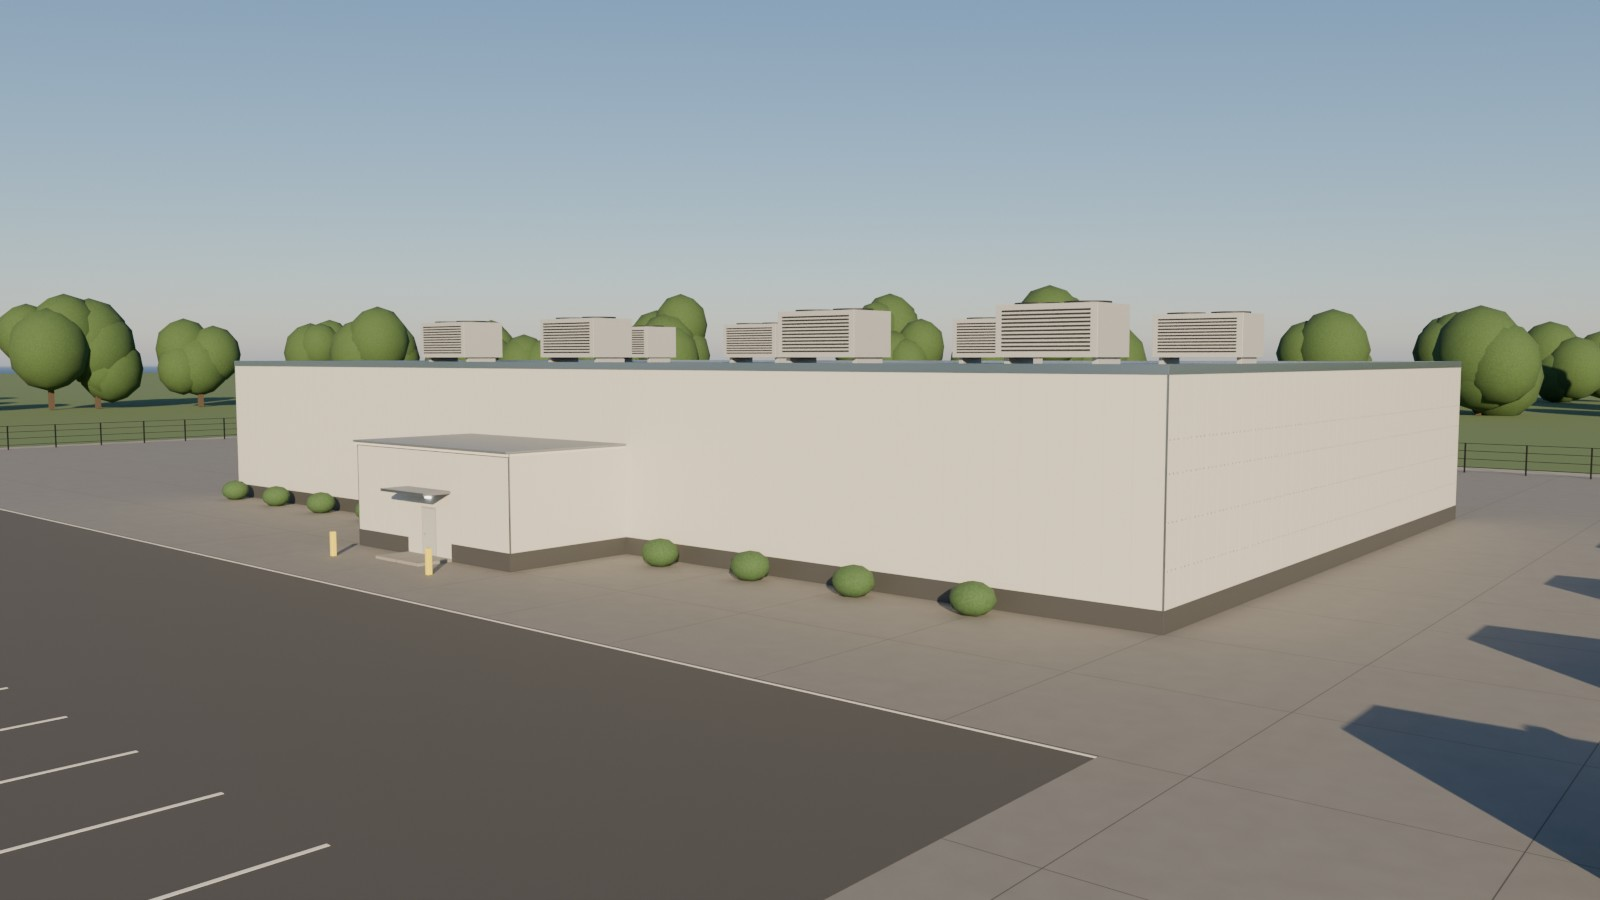
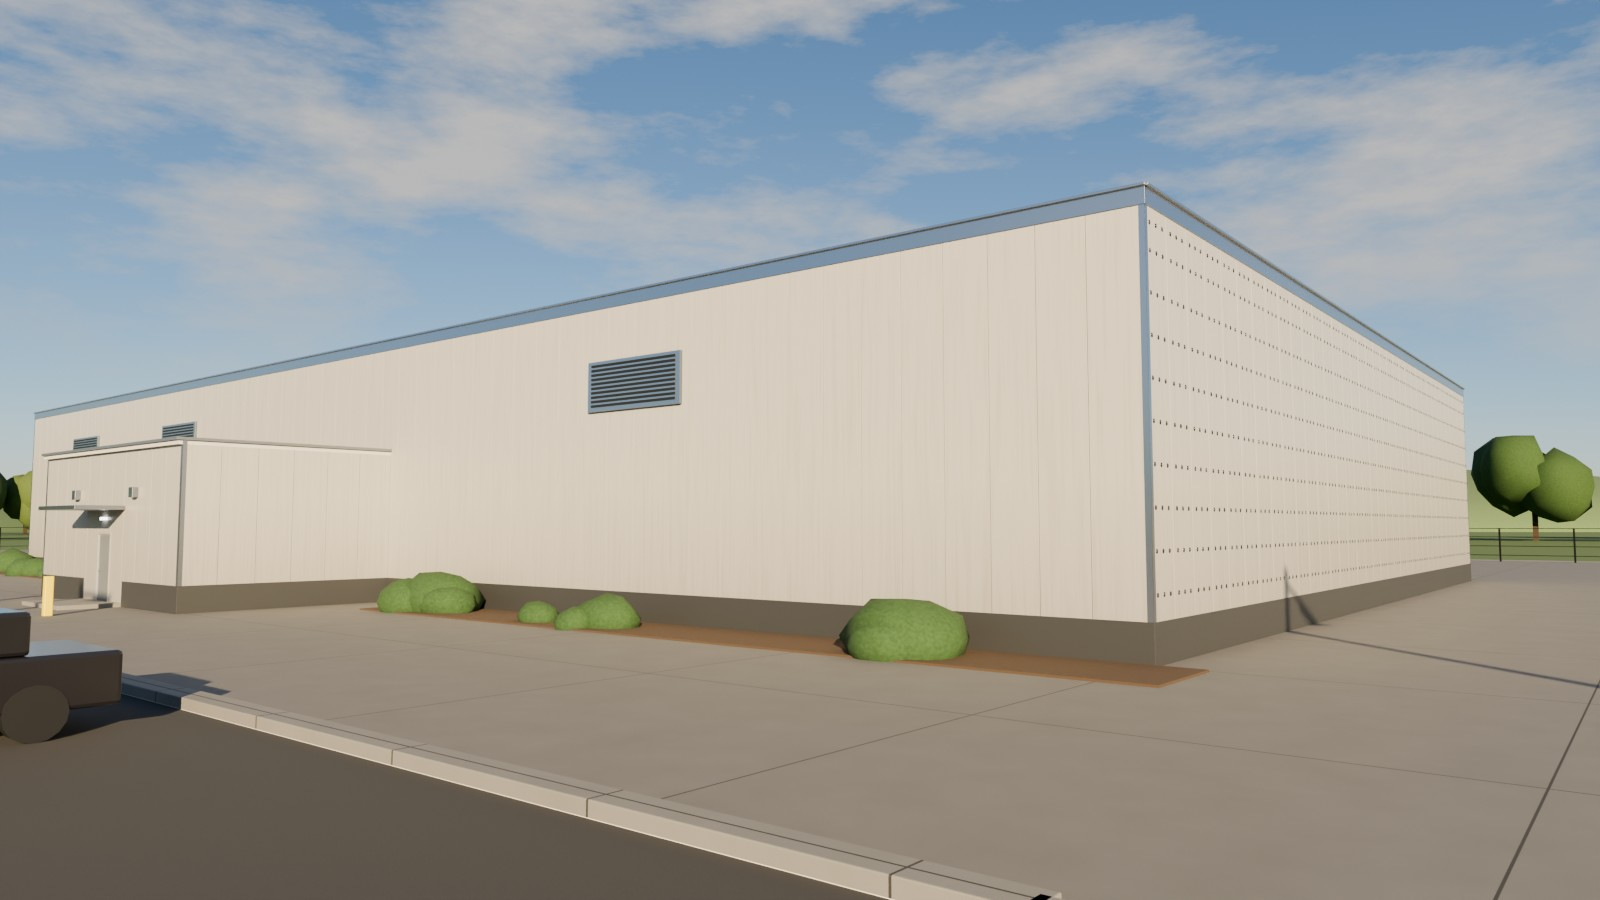
Data center outside renders: visible panel joints, fastener wall vs smooth wall, corner flashing, roof coping, clouds, cars, curbs, shrubs, louvres, weathering, low sun; new outside stills and 360 spots

diff --git a/scripts/uspanels_datacenter.py b/scripts/uspanels_datacenter.py
@@ -30,7 +30,7 @@ HX, HY, HH = 30.0, 18.0, 8.0       # half width (x), half depth (y), wall height
 WT = 0.10                          # wall panel thickness
 RT = 0.16                          # roof slab
 PITCH = 1.0                        # panel cover width
-GAP = 0.004
+GAP = 0.010
 PART_Y = 12.0                     # interior partition wall (back of the racks)
 AX, AD, AH = 5.5, 6.0, 4.6        # entrance building: half width, depth, height
 
@@ -254,12 +254,33 @@ M["wall"].name = "Wall_steel"
 for _n in M["wall"].node_tree.nodes:                  # a touch greyer than the studio colour so sunlit and shaded walls read apart
     if _n.type == "BSDF_PRINCIPLED":
         _n.inputs["Base Color"].default_value = (.60, .61, .60, 1)
+def add_grime(m, base):
+    """Weathering on the outer walls: darker near the ground and faint vertical run-off streaks."""
+    nt = m.node_tree
+    b = [n for n in nt.nodes if n.type == "BSDF_PRINCIPLED"][0]
+    tc = nt.nodes.new("ShaderNodeTexCoord")
+    mp = nt.nodes.new("ShaderNodeMapping"); mp.inputs["Scale"].default_value = (16, 16, .5)
+    nz = nt.nodes.new("ShaderNodeTexNoise"); nz.inputs["Scale"].default_value = 1.0; nz.inputs["Detail"].default_value = 6
+    nt.links.new(tc.outputs["Object"], mp.inputs["Vector"]); nt.links.new(mp.outputs["Vector"], nz.inputs["Vector"])
+    sp = nt.nodes.new("ShaderNodeSeparateXYZ"); nt.links.new(tc.outputs["Object"], sp.inputs["Vector"])
+    low = math_node(nt, "SUBTRACT", 1.0, math_node(nt, "DIVIDE", sp.outputs["Z"], 3.2), clamp=True)          # 1 at the ground, 0 at 3 m
+    streak = math_node(nt, "MULTIPLY", math_node(nt, "SUBTRACT", nz.outputs["Fac"], .47), .55, clamp=True)
+    grime = math_node(nt, "ADD", math_node(nt, "MULTIPLY", low, .32), streak, clamp=True)
+    _, c = mix_rgba(nt, grime, (*base, 1), (.17, .165, .15, 1))
+    nt.links.new(c, b.inputs["Base Color"])
+
+
+add_grime(M["wall"], (.52, .52, .50))
+for _n in M["wall"].node_tree.nodes:                  # coated steel: a little more sheen so the sun runs along the panels
+    if _n.type == "BSDF_PRINCIPLED":
+        _n.inputs["Roughness"].default_value = .30
+        _n.inputs["Coat Weight"].default_value = .22
 M["wall_in"] = mat("Wall_inner", (.70, .71, .70), .55, 0, coat=0.05)
 M["roof"] = mat("Roof_steel", (.42, .45, .48), .32, .8, coat=.2, bump=(1500, .05))
 M["alu"] = mat("Aluminum", (.74, .76, .78), .28, 1.0, bump=(2000, .04))
 M["dark"] = mat("Dark", (.03, .032, .035), .5, .3)
 M["fence"] = mat("Fence", (.015, .016, .018), .45, .6)
-M["washer"] = mat("Washer", (.52, .54, .57), .3, 1.0)
+M["washer"] = mat("Washer", (.16, .17, .19), .28, 1.0)
 M["head"] = mat("ScrewHead", (.22, .23, .25), .35, 1.0)
 M["gen"] = mat("Generator", (.80, .76, .62), .5, .1, bump=(900, .06))
 M["unit"] = mat("Chiller", (.58, .60, .62), .55, .5, bump=(500, .2))
@@ -304,7 +325,15 @@ def strips(name, axis, fixed, thick, a0, a1, z0, z1, mat_out, mat_in, outward, s
             box_bm(bm, s0, s1, fixed - thick / 2, fixed + thick / 2, header, z1)
         else:
             box_bm(bm, fixed - thick / 2, fixed + thick / 2, s0, s1, header, z1)
-    me_ob = bm_obj(name, bm, None, smooth=False, bevel=0.0025)
+    # a dark backing sheet behind the panels, so every joint reads as a dark line (and the door opening stays open)
+    cuts = [(a0, a1)] if not skip else [(a0, skip[0]), (skip[1], a1)]
+    for i_, (c0, c1) in enumerate(cuts):
+        if c1 - c0 > .01:
+            if axis == "x":
+                box(name + "_back%d" % i_, c0, c1, fixed - thick * .3, fixed + thick * .3, z0, z1, M["dark"])
+            else:
+                box(name + "_back%d" % i_, fixed - thick * .3, fixed + thick * .3, c0, c1, z0, z1, M["dark"])
+    me_ob = bm_obj(name, bm, None, smooth=False, bevel=0.004)
     me_ob.data.materials.append(mat_out)
     me_ob.data.materials.append(mat_in)
     # outer faces -> slot 0, inner faces -> slot 1, edges stay on slot 0
@@ -324,8 +353,8 @@ def saddle_washers(name, x, y0, y1, z_rows, outward=1):
         yc = y0 + (i + .5) * pw
         for dy in (-.3, 0.0, .3):
             for z in z_rows:
-                r1 = bmesh.ops.create_cone(bm, cap_ends=True, segments=14, radius1=.03, radius2=.03, depth=.005)
-                r2 = bmesh.ops.create_cone(bm, cap_ends=True, segments=6, radius1=.011, radius2=.011, depth=.009)
+                r1 = bmesh.ops.create_cone(bm, cap_ends=True, segments=14, radius1=.042, radius2=.042, depth=.006)
+                r2 = bmesh.ops.create_cone(bm, cap_ends=True, segments=6, radius1=.015, radius2=.015, depth=.011)
                 for verts, off in ((r1["verts"], .002), (r2["verts"], .0075)):
                     for v in verts:
                         c = v.co
@@ -341,7 +370,7 @@ def build_building():
     strips("Wall_back", "x", HY + WT / 2, WT, -HX, HX, 0, HH, W, M["wall_in"], +1)
     strips("Wall_west", "y", -HX - WT / 2, WT, -HY - WT, HY + WT, 0, HH, W, M["wall_in"], -1)
     east = strips("Wall_east", "y", HX + WT / 2, WT, -HY - WT, HY + WT, 0, HH, W, M["wall_in"], +1)
-    saddle_washers("Saddle_washers", HX + WT, -HY - WT, HY + WT, [.45, 1.95, 3.45, 4.95, 6.0])
+    saddle_washers("Saddle_washers", HX + WT, -HY - WT, HY + WT, [.45, 1.2, 1.95, 2.7, 3.45, 4.2, 4.95, 5.7, 6.45, 7.2, 7.7])
     # roof: ribbed sheet on a slab
     box("Roof_slab", -HX - WT, HX + WT, -HY - WT, HY + WT, HH, HH + RT * .8, M["wall_in"], smooth=False)
     bm = bmesh.new()
@@ -362,6 +391,7 @@ def build_building():
     for (xa, xb, ya, yb) in [(-HX - WT - .02, HX + WT + .02, -HY - WT - .02, -HY - WT + .02), (-HX - WT - .02, HX + WT + .02, HY + WT - .02, HY + WT + .02),
                               (-HX - WT - .02, -HX - WT + .02, -HY - WT, HY + WT), (HX + WT - .02, HX + WT + .02, -HY - WT, HY + WT)]:
         box("Roof_edge", xa, xb, ya, yb, HH - .02, HH + .30, M["alu"], bevel=.004)
+        box("Roof_coping", xa - .06 if xb - xa < 1 else xa - .02, xb + .06 if xb - xa < 1 else xb + .02, ya - .06 if yb - ya < 1 else ya - .02, yb + .06 if yb - ya < 1 else yb + .02, HH + .30, HH + .35, M["alu"], bevel=.006)   # coping with a small overhang
     corner_angle(HX + WT, -HY - WT, 1, -1, HH + RT * .8)
     corner_angle(-HX - WT, -HY - WT, -1, -1, HH + RT * .8)
     corner_angle(HX + WT, HY + WT, 1, 1, HH + RT * .8)
@@ -393,7 +423,7 @@ def build_building():
 
 def corner_angle(cx, cy, sx, sy, h):
     """Aluminum outside-corner angle, 50 x 50 mm legs, standing on the two wall faces at the corner."""
-    t, L = .003, .05
+    t, L = .004, .11                 # formed flashing: 110 mm legs
     bm = bmesh.new()
     # leg across x (lies on the face at y = cy)
     x0, x1 = (cx - L, cx + t) if sx > 0 else (cx - t, cx + L)
@@ -439,7 +469,7 @@ def door(x, y, z, flip=False, parent_y_face=-1):
                     nt = m.node_tree
                     for n in nt.nodes:
                         if n.type == "BSDF_PRINCIPLED":
-                            n.inputs["Base Color"].default_value = (.46, .48, .50, 1)
+                            n.inputs["Base Color"].default_value = (.20, .22, .24, 1)
                             n.inputs["Roughness"].default_value = .42
                     slot.material = m
     return root
@@ -464,11 +494,18 @@ def build_site():
     bm_obj("ParkingLines", bl_, M["paint"], smooth=False)
     # shrubs along the front of the building and the entrance walk
     bsh = bmesh.new()
-    for sx_ in list(range(-28, -7, 5)) + list(range(9, 28, 5)):
-        r = bmesh.ops.create_icosphere(bsh, subdivisions=2, radius=.75)
-        for v in r["verts"]:
-            v.co = Vector((sx_ + v.co.x * 1.1, -HY - WT - 1.2 + v.co.y, .55 + v.co.z * .8))
+    for cx0 in (-29, -22, -15, 10, 17, 24):                      # clusters of shrubs of different sizes, sunk a little into the bed
+        for k in range(rnd.randint(3, 5)):
+            s = rnd.uniform(.45, 1.1)
+            ox, oy = cx0 + rnd.uniform(-1.9, 1.9), -HY - WT - rnd.uniform(.8, 1.9)
+            r = bmesh.ops.create_icosphere(bsh, subdivisions=2, radius=s)
+            for v in r["verts"]:
+                j = rnd.uniform(.9, 1.1)
+                v.co = Vector((ox + v.co.x * 1.25 * j, oy + v.co.y * j, .3 * s + v.co.z * .8 * j))
     bm_obj("Shrubs", bsh, M["shrub"])
+    mulch = bmesh.new()
+    box_bm(mulch, -31, -6, -HY - WT - 2.2, -HY - WT, 0, .04); box_bm(mulch, 8, 31, -HY - WT - 2.2, -HY - WT, 0, .04)
+    bm_obj("Mulch", mulch, noisy("Mulch", (.11, .075, .05), 120, .5, .95, 1.0), smooth=False)
     # fence: posts and rails
     bm = bmesh.new()
     X0, X1, Y0, Y1 = -84, 84, -54, 48
@@ -515,6 +552,7 @@ def build_site():
         box("Bollard", bx - .1, bx + .1, -HY - WT - AD - 2.5 - .1, -HY - WT - AD - 2.5 + .1, 0, 1.05, mat("Bollard", (.9, .75, .05), .5), bevel=.02)
     # tree line
     bt = bmesh.new()
+    bt2 = bmesh.new()
     btr = bmesh.new()
     for i in range(110):                                        # trees: a few overlapping crowns on a trunk, set well back from the fence
         a = rnd.uniform(0, math.tau)
@@ -524,16 +562,98 @@ def build_site():
             continue                                            # keep the drive clear
         hgt = rnd.uniform(9, 15)
         box_bm(btr, cx - .35, cx + .35, cy - .35, cy + .35, 0, hgt * .5)
+        tgt = bt if rnd.random() < .55 else bt2                 # two shades of green
         for k in range(4):
-            r = bmesh.ops.create_icosphere(bt, subdivisions=2, radius=rnd.uniform(3.8, 6.2))
+            r = bmesh.ops.create_icosphere(tgt, subdivisions=2, radius=rnd.uniform(3.8, 6.2))
             ox, oy, oz = rnd.uniform(-3, 3), rnd.uniform(-3, 3), hgt * .55 + rnd.uniform(0, hgt * .45)
             for v in r["verts"]:
-                v.co = Vector((cx + ox + v.co.x, cy + oy + v.co.y, oz + v.co.z * 1.15))
+                j = rnd.uniform(.84, 1.16)                       # ragged crowns
+                v.co = Vector((cx + ox + v.co.x * j, cy + oy + v.co.y * j, oz + v.co.z * 1.15 * j))
     bm_obj("Trees", bt, noisy("Foliage", (.045, .095, .03), 6, .55, .9, 2.0))
+    bm_obj("Trees2", bt2, noisy("Foliage2", (.085, .13, .04), 7, .5, .9, 2.0))
+    bh_ = bmesh.new()                                            # low hills on the horizon
+    for i in range(14):
+        a = i / 14 * math.tau + rnd.uniform(-.1, .1)
+        r = bmesh.ops.create_icosphere(bh_, subdivisions=3, radius=rnd.uniform(160, 260))
+        hx, hy = math.cos(a) * rnd.uniform(520, 640), math.sin(a) * rnd.uniform(520, 640)
+        for v in r["verts"]:
+            v.co = Vector((hx + v.co.x, hy + v.co.y, v.co.z * .16 - 6))
+    bm_obj("Hills", bh_, noisy("HillGrass", (.13, .2, .1), 3, .35, .95, .6))
+    build_extras()
     bm_obj("Trunks", btr, mat("Bark", (.07, .05, .035), .9), smooth=False)
 
 
 # ---- inside -----------------------------------------------------------------------------------
+def build_extras():
+    """The things that make a site look lived in: light poles, curbs, wall louvres, fuel tanks, a transformer yard, wall lights."""
+    bp, bh, bc = bmesh.new(), bmesh.new(), bmesh.new()
+    for px, py in [(-44, -46), (-12, -46), (20, -46), (50, -30), (-60, -8), (-60, 26), (66, 36)]:        # light poles over the parking and the yard
+        r = bmesh.ops.create_cone(bp, cap_ends=True, segments=10, radius1=.18, radius2=.11, depth=10.0)
+        for v in r["verts"]:
+            v.co = Vector((px + v.co.x, py + v.co.y, 5 + v.co.z))
+        box_bm(bp, px - .06, px + 1.9, py - .05, py + .05, 9.6, 9.72)
+        box_bm(bh, px + 1.2, px + 2.4, py - .22, py + .22, 9.52, 9.64)
+        box_bm(bc, px - .35, px + .35, py - .35, py + .35, 0, .5)            # concrete base
+    bm_obj("LightPoles", bp, M["fence"], smooth=False, bevel=.005)
+    bm_obj("LightHeads", bh, M["alu"], smooth=False, bevel=.01)
+    bm_obj("PoleBases", bc, M["stoop"], smooth=False, bevel=.02)
+    # curbs round the parking lot and the drive
+    bk = bmesh.new()
+    for (x0, x1, y0, y1) in [(-42, 34, -50.1, -49.9), (-42, 34, -30.1, -29.9), (-42.1, -41.9, -50, -30), (33.9, 34.1, -50, -30)]:
+        box_bm(bk, x0, x1, y0 - .1, y1 + .1, 0, .16)
+    bm_obj("Curbs", bk, M["stoop"], smooth=False, bevel=.012)
+    # louvre grilles high on the front wall
+    bl, bs = bmesh.new(), bmesh.new()
+    yf = -HY - WT
+    for gx in (-22.0, -11.0, 17.0):
+        box_bm(bl, gx - 1.7, gx + 1.7, yf - .08, yf, 5.3, 6.6)                                          # frame
+        for k in range(10):
+            box_bm(bs, gx - 1.55, gx + 1.55, yf - .1, yf - .02, 5.42 + k * .115, 5.42 + k * .115 + .06)
+    bm_obj("LouvreFrames", bl, M["alu"], smooth=False, bevel=.006)
+    bm_obj("LouvreSlats", bs, M["dark"], smooth=False)
+    # fuel tanks, two big horizontal cylinders on saddles
+    bt_ = bmesh.new(); bsd = bmesh.new()
+    for ty in (-46.0, -36.0):
+        r = bmesh.ops.create_cone(bt_, cap_ends=True, segments=36, radius1=1.5, radius2=1.5, depth=9.0)
+        for v in r["verts"]:
+            v.co = Vector((HX + 22 + v.co.z, ty + v.co.x, 1.75 + v.co.y))
+        for sx_ in (-3, 3):
+            box_bm(bsd, HX + 22 + sx_ - .3, HX + 22 + sx_ + .3, ty - 1.2, ty + 1.2, 0, .6)
+    bm_obj("FuelTanks", bt_, mat("Tank", (.78, .8, .8), .35, .6, bump=(800, .03)), smooth=True)
+    bm_obj("TankSaddles", bsd, M["stoop"], smooth=False)
+    # transformer yard
+    btf = bmesh.new(); bfn = bmesh.new()
+    for tx_, ty_ in [(HX + 24, 30), (HX + 24, 40), (HX + 32, 35)]:
+        box_bm(btf, tx_ - 1.6, tx_ + 1.6, ty_ - 1.3, ty_ + 1.3, .3, 2.8)
+        for k in range(8):
+            box_bm(bfn, tx_ - 1.75, tx_ - 1.6, ty_ - 1.1 + k * .3, ty_ - 1.0 + k * .3, .6, 2.5)
+        box_bm(btf, tx_ - 1.7, tx_ + 1.7, ty_ - 1.4, ty_ + 1.4, 0, .3)
+    bm_obj("Transformers", btf, mat("Transformer", (.30, .36, .33), .45, .5, bump=(700, .05)), smooth=False, bevel=.02)
+    bm_obj("TransformerFins", bfn, M["dark"], smooth=False)
+    # a few parked cars (simple shapes, glossy paint) as a sense of scale
+    pal = {"white": (.82, .82, .80), "silver": (.55, .57, .6), "black": (.03, .03, .035), "red": (.45, .05, .05), "blue": (.05, .12, .3), "grey": (.25, .26, .28)}
+    cb = {k: bmesh.new() for k in pal}; glass, wheels = bmesh.new(), bmesh.new()
+    for cx_, cy_, kind in [(-34, -46.4, "white"), (-26, -46.4, "blue"), (-22, -46.4, "silver"), (-10, -46.4, "black"), (-2, -46.4, "grey"), (6, -46.4, "red"), (18, -46.4, "white"), (-30, -33.5, "silver"), (22, -33.5, "black")]:
+        yaw = rnd.uniform(-.03, .03); L, Wd = 4.5, 1.85
+        box_bm(cb[kind], cx_ - Wd / 2, cx_ + Wd / 2, cy_ - L / 2, cy_ + L / 2, .32, .95)
+        box_bm(cb[kind], cx_ - Wd / 2 + .08, cx_ + Wd / 2 - .08, cy_ - L / 2 + 1.1, cy_ + L / 2 - .9, .95, 1.44)
+        box_bm(glass, cx_ - Wd / 2 + .1, cx_ + Wd / 2 - .1, cy_ - L / 2 + 1.25, cy_ + L / 2 - 1.05, .98, 1.38)
+        for wy in (-1.4, 1.4):
+            for wx in (-Wd / 2 + .1, Wd / 2 - .1):
+                r = bmesh.ops.create_cone(wheels, cap_ends=True, segments=16, radius1=.32, radius2=.32, depth=.22)
+                for v in r["verts"]:
+                    v.co = Vector((cx_ + wx + v.co.z, cy_ + wy + v.co.x, .32 + v.co.y))
+    for k, bmk in cb.items():
+        bm_obj("Car_" + k, bmk, mat("CarPaint_" + k, pal[k], .22, .4, coat=.9), smooth=False, bevel=.05)
+    bm_obj("CarGlass", glass, mat("CarGlass", (.02, .03, .035), .05, .3), smooth=False, bevel=.02)
+    bm_obj("CarWheels", wheels, M["dark"], smooth=False)
+    # wall lights beside the entrance and at the corners
+    bw = bmesh.new()
+    for lx, ly in [(-2.4, -HY - WT - AD - WT), (2.4, -HY - WT - AD - WT)]:
+        box_bm(bw, lx - .15, lx + .15, ly - .16, ly, 3.2, 3.5)
+    bm_obj("WallLights", bw, M["alu"], smooth=False, bevel=.01)
+
+
 def build_inside():
     plane_bm = bmesh.new()
     box_bm(plane_bm, -HX, HX, -HY, HY, -.04, .0)
@@ -637,12 +757,42 @@ def world_outdoor():
     sky.sun_elevation = math.radians(float(arg("--sunel", "17")))
     sky.sun_rotation = math.radians(SKY_ROT)
     sky.air_density = 1.0
+    if hasattr(sky, "sun_intensity"):
+        sky.sun_intensity = float(arg("--sunpow", "1.6"))      # a stronger sun against the sky, so shadows and joints read
     for attr, val in (("aerosol_density", 1.2), ("dust_density", 1.2)):
         if hasattr(sky, attr):
             setattr(sky, attr, val)
     bg.inputs["Strength"].default_value = 1.0
-    nt.links.new(sky.outputs["Color"], bg.inputs["Color"])
+    # a layer of soft clouds, stretched along the horizon, fading out toward the horizon and the zenith
+    tc = nt.nodes.new("ShaderNodeTexCoord")
+    mp = nt.nodes.new("ShaderNodeMapping")
+    mp.inputs["Scale"].default_value = (1.5, 1.5, 4.5)
+    nz = nt.nodes.new("ShaderNodeTexNoise")
+    nz.inputs["Scale"].default_value = 2.2
+    nz.inputs["Detail"].default_value = 7
+    nz.inputs["Roughness"].default_value = .62
+    nt.links.new(tc.outputs["Generated"], mp.inputs["Vector"])
+    nt.links.new(mp.outputs["Vector"], nz.inputs["Vector"])
+    ramp = nt.nodes.new("ShaderNodeValToRGB")
+    ramp.color_ramp.elements[0].position = .47
+    ramp.color_ramp.elements[1].position = .66
+    nt.links.new(nz.outputs["Fac"], ramp.inputs["Fac"])
+    sp = nt.nodes.new("ShaderNodeSeparateXYZ")
+    nt.links.new(tc.outputs["Generated"], sp.inputs["Vector"])
+    # the world's Generated vector is the view direction (z = 0 at the horizon): clouds fade in a little above it
+    fade = math_node(nt, "MULTIPLY", math_node(nt, "SUBTRACT", sp.outputs["Z"], .04), 5.0, clamp=True)
+    cloud = math_node(nt, "MULTIPLY", math_node(nt, "MULTIPLY", ramp.outputs["Color"], fade), .92)
+    _, skycol = mix_rgba(nt, cloud, sky.outputs["Color"], (9.0, 8.8, 8.5, 1))      # the sky is HDR, so clouds are far brighter than 1.0
+    nt.links.new(skycol, bg.inputs["Color"])
     nt.links.new(bg.outputs["Background"], out.inputs["Surface"])
+    # a little haze so distant things (trees, hills) fade into the air
+    haze = float(arg("--haze", "0"))          # a world volume turned the whole picture black in Blender 5.2, so it is off unless asked for
+    if haze > 0:
+        vol = nt.nodes.new("ShaderNodeVolumeScatter")
+        vol.inputs["Density"].default_value = haze
+        vol.inputs["Color"].default_value = (.86, .92, 1.0, 1)
+        vol.inputs["Anisotropy"].default_value = .35
+        nt.links.new(vol.outputs["Volume"], out.inputs["Volume"])
 
 
 def world_interior():
@@ -703,7 +853,17 @@ def main():
         sc.view_settings.view_transform = arg("--vt", "AgX")
     except TypeError:
         pass
+    for lk in ("AgX - Medium High Contrast", "Medium High Contrast"):      # a touch more punch
+        try:
+            sc.view_settings.look = lk
+            break
+        except TypeError:
+            continue
     sc.view_settings.exposure = float(arg("--exposure", "-3.8" if VIEW == "ext" else "1.0"))
+    if VIEW == "ext" and "--pano" not in argv:                              # a very little depth of field, focus on the aim point
+        cam.data.dof.use_dof = True
+        cam.data.dof.focus_distance = (Vector(look) - Vector(loc)).length
+        cam.data.dof.aperture_fstop = float(arg("--fstop", "10"))
     sc.render.image_settings.file_format = "JPEG"
     sc.render.image_settings.quality = 90
     os.makedirs(os.path.dirname(OUT), exist_ok=True)
